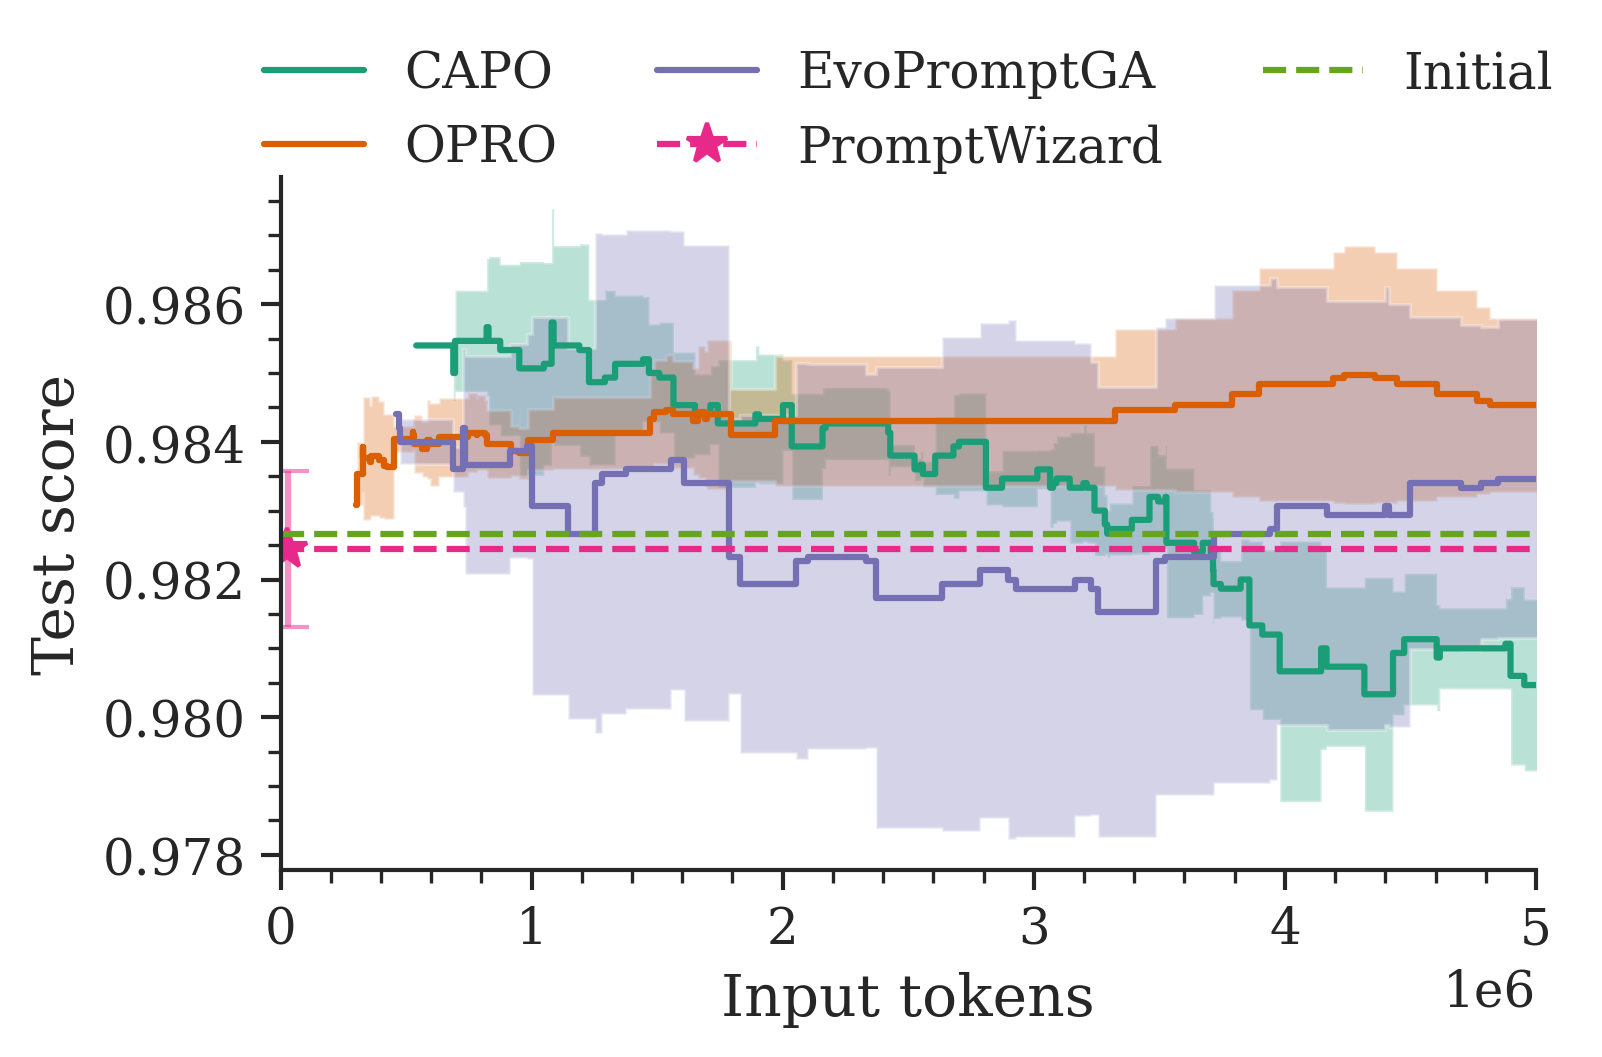
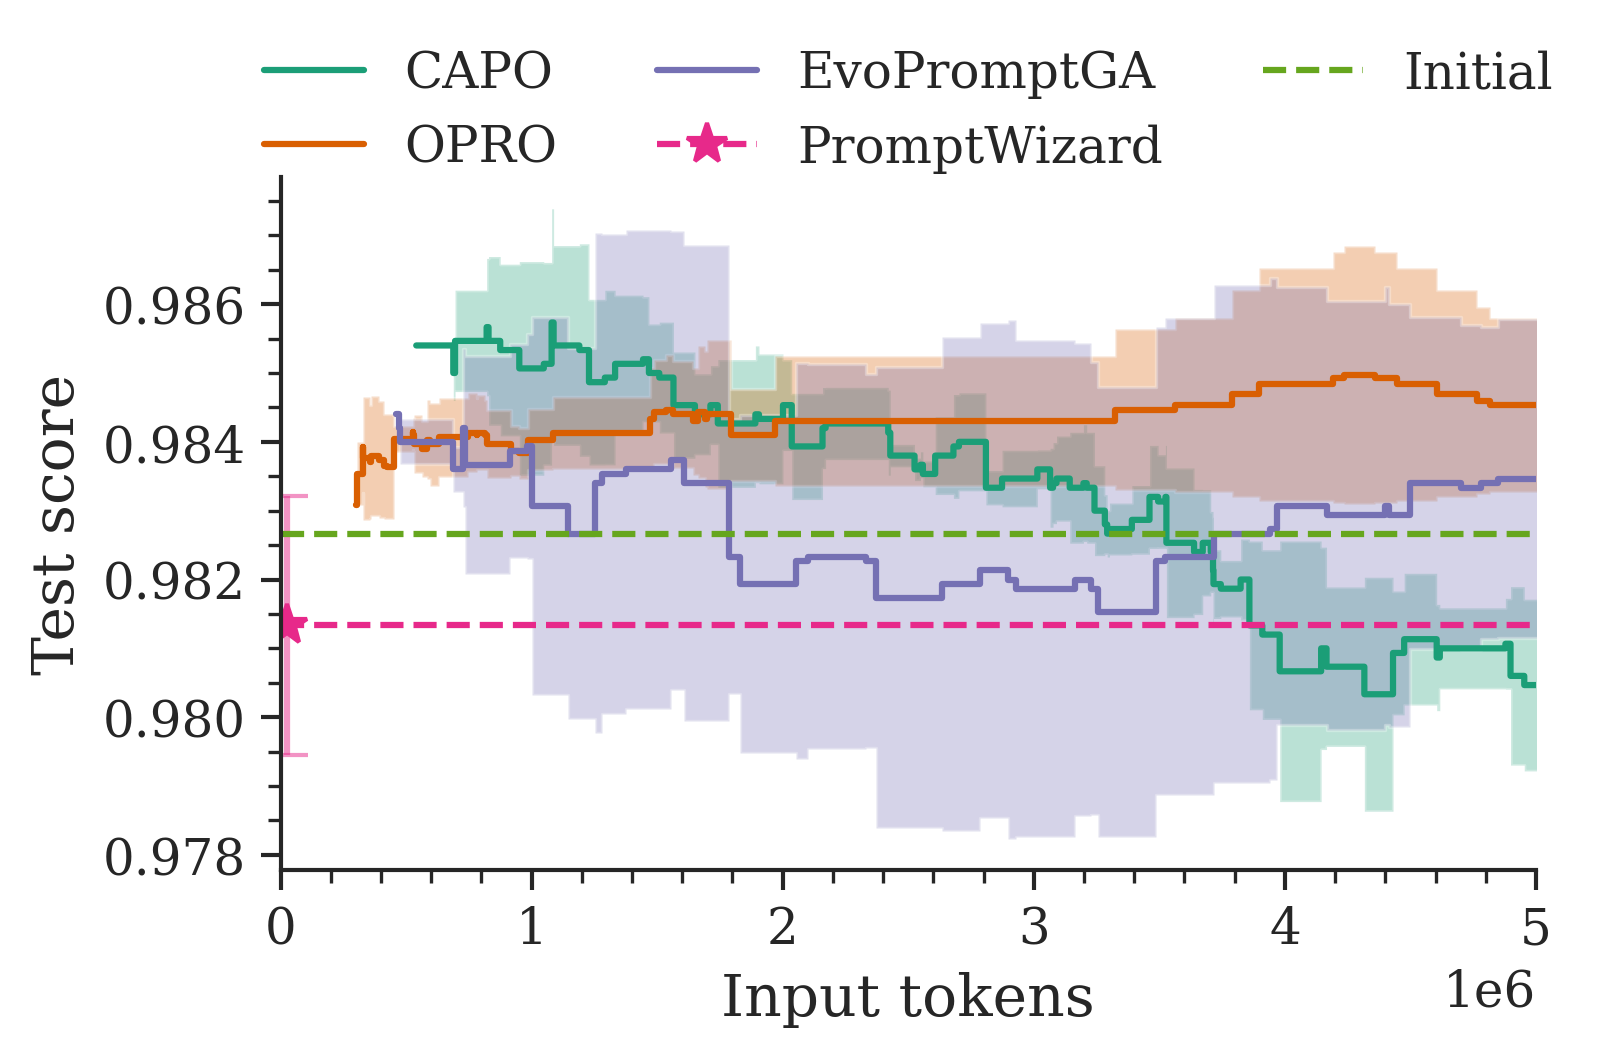
fix promptwizard visualizations

diff --git a/capo/analysis/visualizations.py b/capo/analysis/visualizations.py
@@ -39,7 +39,9 @@ def plot_population_scores(
     df = get_results(dataset, model, optim, path_prefix)
     if len(df) == 0:
         return ax
-    df = aggregate_results(df, how=agg, ffill_col=x_col)
+
+    if optim not in ["Initial", "PromptWizard"]:
+        df = aggregate_results(df, how=agg, ffill_col=x_col)
 
     # Plot individual seeds if requested
     seeds_count = df["seed"].nunique()
